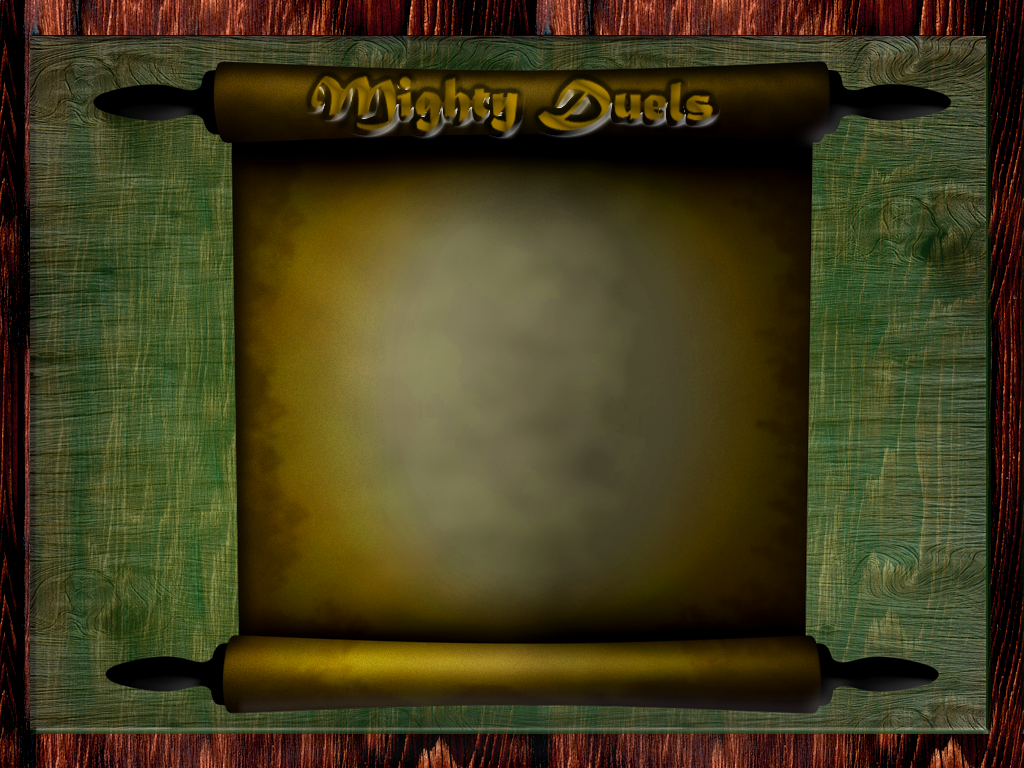
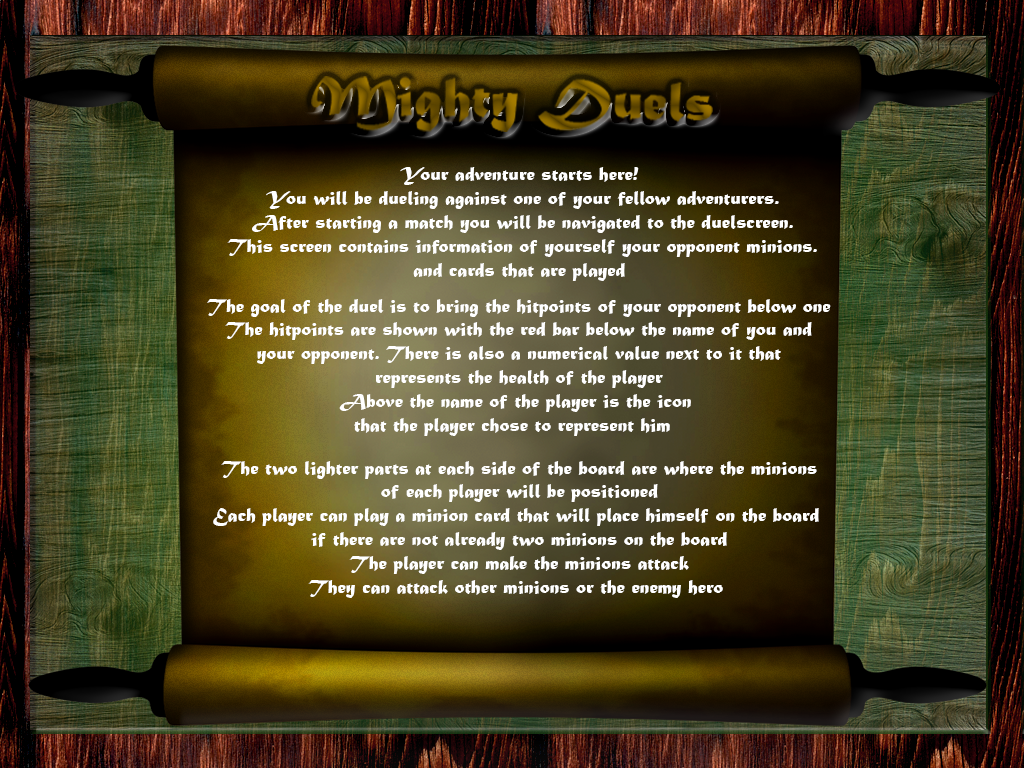
Merge origin/master
Added a tutorial screen and included the background in the images.

Changed region(s): [[0.0, 0.0625, 0.9688, 0.9688]]

diff --git a/src/Client/GUI/TutorialFXMLController.java b/src/Client/GUI/TutorialFXMLController.java
@@ -7,7 +7,9 @@ package Client.GUI;
 
 import java.net.URL;
 import java.util.ResourceBundle;
+import javafx.fxml.FXML;
 import javafx.fxml.Initializable;
+import javafx.scene.image.ImageView;
 
 /**
  * FXML Controller class
@@ -16,12 +18,25 @@ import javafx.fxml.Initializable;
  */
 public class TutorialFXMLController implements Initializable {
 
+    @FXML 
+    private ImageView Imv1 = new ImageView("@../Resources/Images/Tutorial%20Screen.png");
+    @FXML 
+    private ImageView Imv2 = new ImageView("@../Resources/Images/Tutorial%20Screen2.png");
+    @FXML 
+    private ImageView Imv3 = new ImageView("@../Resources/Images/Tutorial%20Screen3.png");
+    @FXML 
+    private ImageView Imv4 = new ImageView("@../Resources/Images/Tutorial%20Screen4.png");
+    
+  
     /**
      * Initializes the controller class.
      */
     @Override
     public void initialize(URL url, ResourceBundle rb) {
-        // TODO
+        Imv1.setOpacity(0);
+        Imv2.setOpacity(0);
+        Imv3.setOpacity(0);
+        Imv4.setOpacity(0);
     }    
     
 }
